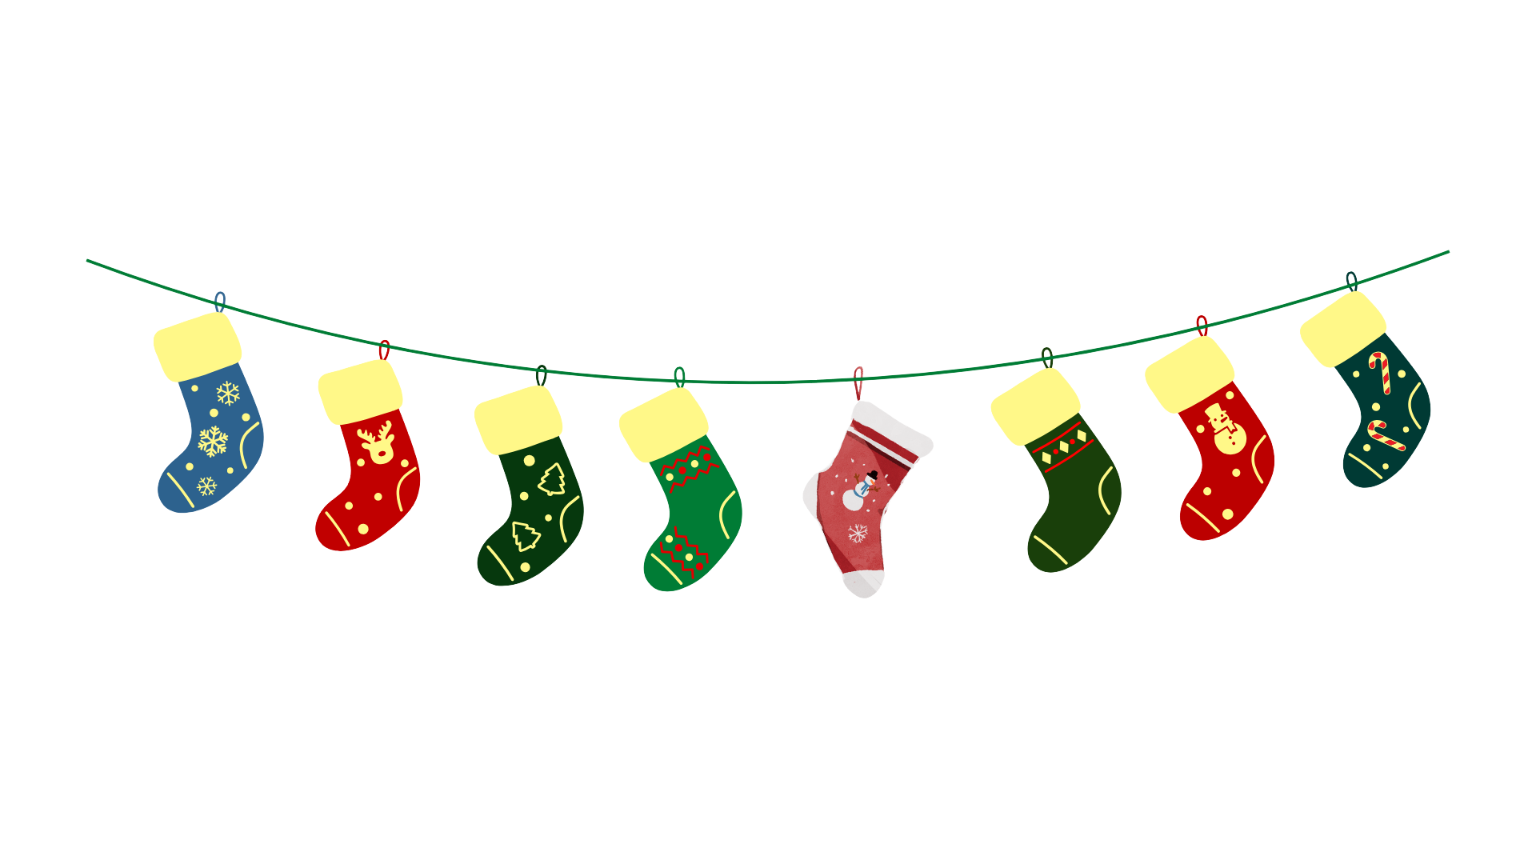
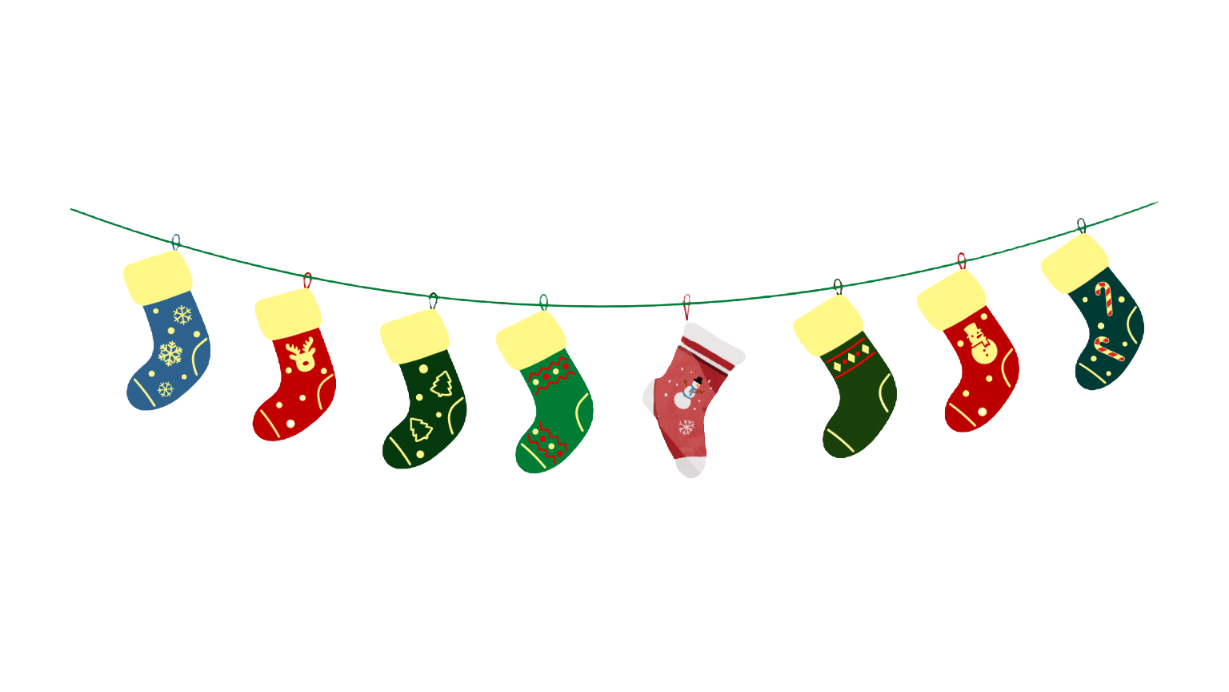
更新了CSS和圖片

diff --git a/style.css b/style.css
@@ -30,39 +30,28 @@ body {
     position: relative;
     width: 100%;
     height: 80vh;
-    /* 移除 flex 設定，因為我們現在使用絕對定位 */
-    /* display: flex;  <-- 不需要了 */
-    /* justify-content: center; */
-    /* align-items: center; */
     perspective: 1000px;
+    z-index: 5; /* 確保名字顯示在裝飾品上方 */
 }
 
 /* 漂浮的名字 */
 .name-tag {
     position: absolute;
-    /* 初始歸零，透過 transform 移動 */
     left: 0; 
     top: 0; 
-    font-size: 14px; /* 稍微調大一點點 */
+    font-size: 14px;
     padding: 5px 10px;
     background: rgba(255, 0, 0, 0.3);
     border-radius: 20px;
     border: 1px solid gold;
     color: #ffd700;
-    
-    /* 優化：移除 box-shadow 或減少擴散半徑以提升效能 */
-    /* box-shadow: 0 0 10px rgba(255, 215, 0, 0.5); */
-    
     white-space: nowrap;
     cursor: pointer;
-    
-    /* 效能優化關鍵：告訴瀏覽器 transform 會變動 */
     will-change: transform;
-    /* transition 在 JS 中動態設定，這裡作為備用 */
     transition: transform 4s ease-in-out;
 }
 
-/* 中獎者樣式 - 需要覆蓋原本的 transform */
+/* 中獎者樣式 */
 .winner {
     position: absolute;
     font-size: 30px !important;
@@ -70,16 +59,10 @@ body {
     z-index: 1000 !important;
     border: 5px solid gold !important;
     box-shadow: 0 0 50px gold, 0 0 100px red !important;
-    
-    /* 強制置中設定 */
     top: 50% !important; 
-    /* left 由 JS 動態計算 (20%, 50%, 80%)，不需要 !important */
-    
-    /* 這裡使用 transform 來修正中心點 */
     transform: translate(-50%, -50%) scale(1.5) !important;
-    
     animation: pulse 1s infinite;
-    transition: all 0.5s ease !important; /* 中獎時的過渡效果 */
+    transition: all 0.5s ease !important;
 }
 
 @keyframes pulse {
@@ -105,7 +88,6 @@ body {
 .btn:active { transform: scale(0.95); }
 .controls { position: absolute; bottom: 30px; left: 50%; transform: translateX(-50%); z-index: 10; display: flex; align-items: center;}
 
-/* Admin Link */
 .admin-link {
     position: fixed;
     top: 20px;
@@ -123,4 +105,77 @@ body {
 .admin-link:hover {
     background: #c41e3a;
     color: white;
+}
+
+/* ========================================= */
+/* 🔥🔥🔥 圖片裝飾設定區域 🔥🔥🔥 */
+/* ========================================= */
+
+#background-decorations {
+    position: absolute;
+    top: 0;
+    left: 0;
+    width: 100%;
+    height: 100%;
+    pointer-events: none; /* 讓滑鼠穿透圖片，不會擋到點擊 */
+    z-index: 2; /* 層級：在雪花(1)上面，但在名字(5)下面 */
+    overflow: hidden;
+}
+
+.deco-img {
+    position: absolute;
+    opacity: 0.95; /* 圖片透明度，1 為不透明 */
+    filter: drop-shadow(0 0 10px rgba(0,0,0,0.5)); /* 加一點陰影更有立體感 */
+}
+
+/* 🎄 1. 聖誕樹設定 */
+.deco-tree {
+    /* --- 📝 調整這裡來改變位置與大小 --- */
+    width: 500px;       /* 圖片寬度 (設越大圖越大) */
+    height: auto;       /* 高度自動 */
+    
+    bottom: -20px;      /* 靠下對齊 (負值代表往下移一點) */
+    left: -150px;        /* 靠左對齊 (負值代表往左移一點) */
+    /* -------------------------------- */
+}
+
+/* 🎅 2. 聖誕老人設定 */
+.deco-santa {
+    /* --- 📝 調整這裡來改變位置與大小 --- */
+    width: 500px;       /* 圖片寬度 */
+    height: auto;
+    
+    bottom: -50px;       /* 距離底部 30px */
+    right: -50px;        /* 距離右邊 50px */
+    /* -------------------------------- */
+    
+    /* 聖誕老人的漂浮動畫 */
+    animation: floatSanta 3s ease-in-out infinite;
+}
+
+/* 🧦 3. 聖誕襪設定 */
+.deco-sock {
+    /* --- 📝 調整這裡來改變位置與大小 --- */
+    width: 1200px;       /* 圖片寬度 */
+    height: auto;
+    
+    top: -50px;         /* 靠上對齊 (負值代表往上藏一點) */
+    right: 100px;       /* 距離右邊 150px */
+    left: 0px;
+    /* -------------------------------- */
+    
+    transform-origin: top center; /* 設定旋轉中心在頂部 */
+    animation: swingSock 3s ease-in-out infinite; /* 搖晃動畫 */
+}
+
+/* 動畫設定 */
+@keyframes floatSanta {
+    0%, 100% { transform: translateY(0); }
+    50% { transform: translateY(-15px); } /* 上下浮動 15px */
+}
+
+@keyframes swingSock {
+    0% { transform: rotate(-3deg); }
+    50% { transform: rotate(3deg); }  /* 左右搖晃 3度 */
+    100% { transform: rotate(-3deg); }
 }

diff --git a/index.html b/index.html
@@ -12,6 +12,13 @@
     </audio>
 
     <div id="snow-container"></div>
+    <div id="background-decorations">
+        <img src="chrismas tree.png" class="deco-img deco-tree" alt="聖誕樹">
+        
+        <img src="Santa Claus.png" class="deco-img deco-santa" alt="聖誕老人">
+        
+        <img src="chrismas sock.png" class="deco-img deco-sock" alt="聖誕襪">
+    </div>
     <div id="cloud-container"></div>
 
     <div class="controls">
